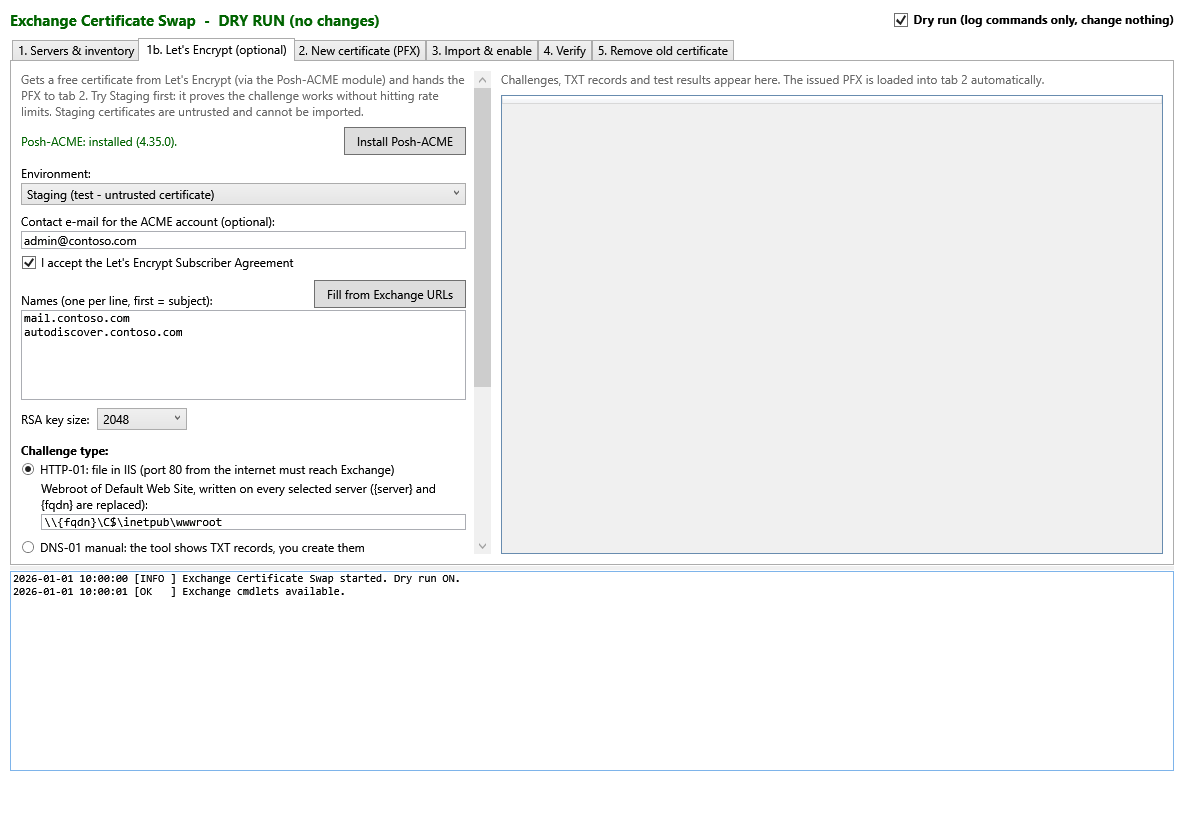
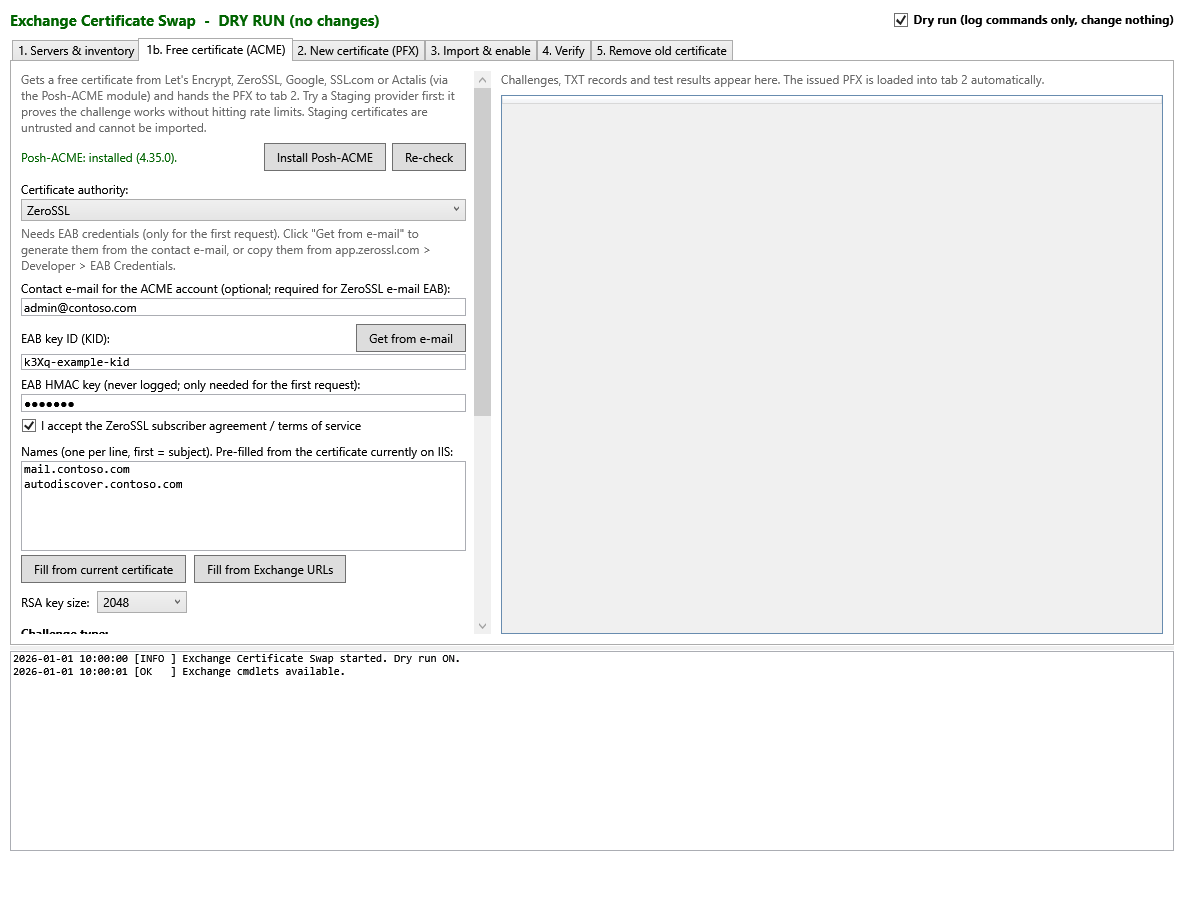
Free certificate tab: add ZeroSSL (incl. e-mail EAB), Google Trust Services, SSL.com, Actalis with EAB support; block staging certs by thumbprint

Changed region(s): [[0.0, 0.0, 0.9867, 0.7622], [0.74, 0.0, 0.9867, 0.0305], [0.37, 0.4573, 0.4008, 0.4878]]

diff --git a/README.md b/README.md
@@ -1,13 +1,13 @@
 # Exchange Certificate Swap
 
-A single-file PowerShell **WPF GUI** for replacing the public IIS/SMTP certificate on on-premises **Exchange Server 2016, 2019 and Subscription Edition** mailbox servers, using a PFX file or a free **Let's Encrypt** certificate. It covers the whole process: inventory, validation, import, enable, verification and safe removal of the old certificate. **Dry run** is on by default.
+A single-file PowerShell **WPF GUI** for replacing the public IIS/SMTP certificate on on-premises **Exchange Server 2016, 2019 and Subscription Edition** mailbox servers, using a PFX file or a **free certificate** from Let's Encrypt, ZeroSSL, Google Trust Services, SSL.com or Actalis. It covers the whole process: inventory, validation, import, enable, verification and safe removal of the old certificate. **Dry run** is on by default.
 
 ![Screenshot](docs/screenshot.png)
 
 ## Features
 
-- **Let's Encrypt (optional)**: requests a certificate with the [Posh-ACME](https://poshac.me) module and passes the resulting PFX straight to validation. Proof of domain ownership, chosen per request:
-  - **HTTP-01**: the tool writes the challenge file into IIS on **every** selected server, so it works behind a load balancer. It checks that each server serves the file before Let's Encrypt is asked to validate.
+- **Free certificates (optional)**: requests a certificate from **Let's Encrypt, ZeroSSL, Google Trust Services, SSL.com or Actalis** using the [Posh-ACME](https://poshac.me) module, and passes the resulting PFX straight to validation. Proof of domain ownership, chosen per request:
+  - **HTTP-01**: the tool writes the challenge file into IIS on **every** selected server, so it works behind a load balancer. It checks that each server serves the file before the CA is asked to validate.
   - **DNS-01 manual**: the tool shows the `_acme-challenge` TXT records to create, then checks public DNS before continuing. Supports wildcards.
   - **DNS-01 automatic**: uses any of Posh-ACME's ~90 DNS provider plugins (Cloudflare, Route 53, Azure DNS, GoDaddy and more).
 - **Inventory**: lists every Exchange certificate on all selected mailbox servers and marks the **Auth (OAuth)** and **internal transport** certificates.
@@ -40,8 +40,8 @@ A single-file PowerShell **WPF GUI** for replacing the public IIS/SMTP certifica
 | .NET Framework | 4.7.2 or newer |
 | Permissions | Organization Management (or a role that can manage Exchange certificates, connectors and transport services) |
 | Network | From the machine running the tool to each server's FQDN on TCP 443 (and 25 for the SMTP check) |
-| Certificate | A PFX (`.pfx`/`.p12`) **with private key**, ideally including the intermediate CA certificates, **or** Let's Encrypt (see below) |
-| Let's Encrypt only | The [Posh-ACME](https://www.powershellgallery.com/packages/Posh-ACME) module (the tool can install it), outbound HTTPS to `acme-v02.api.letsencrypt.org`, and public DNS names. HTTP-01 also needs inbound port 80 from the internet to the Exchange servers and admin share access (`\\server\C$`) to each server. |
+| Certificate | A PFX (`.pfx`/`.p12`) **with private key**, ideally including the intermediate CA certificates, **or** a free ACME certificate (see below) |
+| Free certificates only | The [Posh-ACME](https://www.powershellgallery.com/packages/Posh-ACME) module (the tool can install it), outbound HTTPS to the CA's ACME server, and public DNS names. HTTP-01 also needs inbound port 80 from the internet to the Exchange servers and admin share access (`\\server\C$`) to each server. |
 
 **Not supported:** Edge Transport servers (they aren't in Active Directory; import their certificate locally and recreate the Edge subscription), and Exchange 2013 or older.
 
@@ -64,7 +64,7 @@ A single-file PowerShell **WPF GUI** for replacing the public IIS/SMTP certifica
 | Tab | What happens | Changes anything? |
 |---|---|---|
 | **1. Servers & inventory** | Select the mailbox servers to work on (all are selected by default). Review the current certificates. | No |
-| **1b. Let's Encrypt** *(optional)* | Request a certificate instead of bringing a PFX. See [Let's Encrypt](#lets-encrypt) below. When it is issued, the PFX is loaded into tab 2 and validated automatically. | Yes (unless Dry run) |
+| **1b. Free certificate (ACME)** *(optional)* | Request a free certificate instead of bringing a PFX. See [Free certificates](#free-certificates-acme) below. When it is issued, the PFX is loaded into tab 2 and validated automatically. | Yes (unless Dry run) |
 | **2. New certificate (PFX)** | Browse to the PFX, enter its password and click **Validate**. Read the report. Missing host names and connectors that point to the old certificate appear as warnings. | No |
 | **3. Import & enable** | **Step A**: import the PFX on all selected servers. **Step B**: enable it for IIS and SMTP. The old certificate stays on the servers. | Yes |
 | **4. Verify** | Checks that Exchange has the new certificate enabled for IIS and SMTP and that it is served on port 443. You can add extra endpoints, such as `mail.contoso.com` or a load balancer address, to check too. | No |
@@ -72,13 +72,29 @@ A single-file PowerShell **WPF GUI** for replacing the public IIS/SMTP certifica
 
 After step 3, update any connectors reported on tab 2 with the command the tool shows. Then load the candidates on tab 5 again.
 
-## Let's Encrypt
+## Free certificates (ACME)
 
-![Let's Encrypt tab](docs/letsencrypt.png)
+![Free certificate tab](docs/letsencrypt.png)
+
+### Certificate authorities
+
+| Certificate authority | Account needed | EAB credentials (first request only) | Staging available |
+|---|---|---|---|
+| **Let's Encrypt** | No | No | Yes |
+| **ZeroSSL** | No | Yes. Click **Get from e-mail** to generate them from the contact e-mail, or copy them from *app.zerossl.com → Developer → EAB Credentials* | No |
+| **Google Trust Services** | Google Cloud project | Yes. In Cloud Shell, run `gcloud services enable publicca.googleapis.com` then `gcloud publicca external-account-keys create`. Use `keyId` as the KID and `b64MacKey` as the HMAC key. The credentials expire after 7 days if unused. For **staging**, run `gcloud config set api_endpoint_overrides/publicca https://preprod-publicca.googleapis.com/` before creating them. | Yes |
+| **SSL.com** (RSA) | Free SSL.com account | Yes, from the SSL.com dashboard | No |
+| **Actalis** | Free Actalis account | Yes, from the Actalis dashboard | No |
+
+EAB (External Account Binding) credentials link your ACME account to your account at the CA. They're needed only the first time: Posh-ACME keeps the account for each CA, so later requests and renewals don't need them. The HMAC key is a password field and is never written to the log.
+
+All of these issue publicly trusted 90-day domain-validated certificates, which Exchange accepts. SSL.com's ECC endpoint is left out because Exchange needs RSA certificates. Each CA's terms and rate limits can change, so check them before relying on a CA.
+
+### Steps
 
 1. Click **Install Posh-ACME** if the module is missing. It installs for the current user from the PowerShell Gallery. The tool looks for the module on `PSModulePath` and also in the PowerShell 7 module folders, your Documents folders (including OneDrive and redirected Documents), Program Files, and a `Modules` folder next to the script. It then loads the module by its full path. If it still shows **NOT found**, the log lists every folder it checked. Click **Re-check** after installing it in another window.
-2. Keep **Environment = Staging** for the first run. Staging uses the full validation process but issues an untrusted certificate. The tool refuses to import staging certificates.
-3. Tick the Subscriber Agreement. The e-mail address is optional.
+2. Choose the **certificate authority**. For the first run, keep **Let's Encrypt - Staging** (or Google Staging). Staging uses the full validation process but issues an untrusted certificate. The tool refuses to import staging certificates.
+3. Tick the subscriber agreement. The e-mail address is optional, except for **Get from e-mail** with ZeroSSL. Fill in the EAB fields if the CA needs them.
 4. Check the **names**. When the tool starts, it fills them in from the CA-issued certificate currently bound to IIS on the selected servers: the subject CN comes first, then the SANs. If the servers use different certificates, their names are combined. If a name is a wildcard, the tool switches to DNS-01. If IIS only has a self-signed certificate, it uses the Exchange URLs instead. The tool never overwrites names you typed. To refill the list, use **Fill from current certificate** or **Fill from Exchange URLs**. Internal names such as `.local`, plain server names and IP addresses are always skipped.
 5. Choose a challenge type:
 
@@ -89,13 +105,13 @@ After step 3, update any connectors reported on tab 2 with the command the tool 
    | **DNS-01 automatic** | Your DNS host has an API | Pick a plugin, click **Show parameters**, and enter the arguments as `Name=Value` lines. Put `secure:` before secrets, for example `CFToken=secure:xxxx`. Secrets are never written to the log. |
 
 6. Click **Request certificate**, with Dry run unticked. When the certificate is issued, the tool removes the challenge files or records and opens tab 2 with the PFX already validated. Then continue with tab 3 as usual.
-7. When it works on Staging, switch to **Production** and request again.
+7. When it works on Staging, switch to a production CA and request again.
 
 Posh-ACME keeps the account, the orders and the issued files in `%LOCALAPPDATA%\Posh-ACME` for the user who ran the tool. The log shows the PFX path. The PFX password is stored with the order: `(Get-PAOrder <name>).PfxPass`.
 
-**Renewal:** Let's Encrypt certificates are valid for 90 days at most, and shorter in future. Run the tool again about every 60 days: request, validate, import and enable on tabs 1b to 4, then remove the old certificate on tab 5. Renewal is not automatic.
+**Renewal:** these certificates are valid for 90 days at most, and the industry maximum keeps shrinking (47 days by 2029). Run the tool again about every 60 days: request, validate, import and enable on tabs 1b to 4, then remove the old certificate on tab 5. Renewal is not automatic.
 
-**Rate limits:** Production allows 5 duplicate certificates per week and 50 certificates per registered domain per week. Test on Staging first.
+**Rate limits:** Let's Encrypt production allows 5 duplicate certificates per week and 50 certificates per registered domain per week. Other CAs have their own limits. Test on Staging first.
 
 ## Things to know
 
@@ -105,7 +121,7 @@ Posh-ACME keeps the account, the orders and the issued files in `%LOCALAPPDATA%\
 - **Load balancers or reverse proxies that terminate TLS** (HAProxy, F5, KEMP, NGINX and so on) need the new certificate installed on them separately. Add their address on tab 4 to check it.
 - **Hybrid deployments**: if your *Outbound to Office 365* connector or the receive connectors point to the old certificate, update them before removing it, and rerun the Hybrid Configuration Wizard if your process requires it.
 - **Posh-ACME shows "NOT found" although you installed it**: check the folder list in the log. Common causes are installing it from PowerShell 7 (`pwsh`) as a *different* user than the one running the tool, or a server with no internet access. For offline servers, run `Save-Module Posh-ACME -Path .\Modules` on another machine and copy the `Modules` folder next to `ExchangeCertTool.ps1`. If loading fails because of the execution policy, the log shows the policy that applies.
-- **Let's Encrypt HTTP-01 fails with 403**: *Require SSL* is set on the root of *Default Web Site*. Use DNS-01, or allow HTTP for `/.well-known/acme-challenge` only.
+- **HTTP-01 fails with 403**: *Require SSL* is set on the root of *Default Web Site*. Use DNS-01, or allow HTTP for `/.well-known/acme-challenge` only.
 - The **Exchange Back End** site (port 444) and the **Auth certificate** are never changed by this tool.
 
 ## Testing without Exchange
